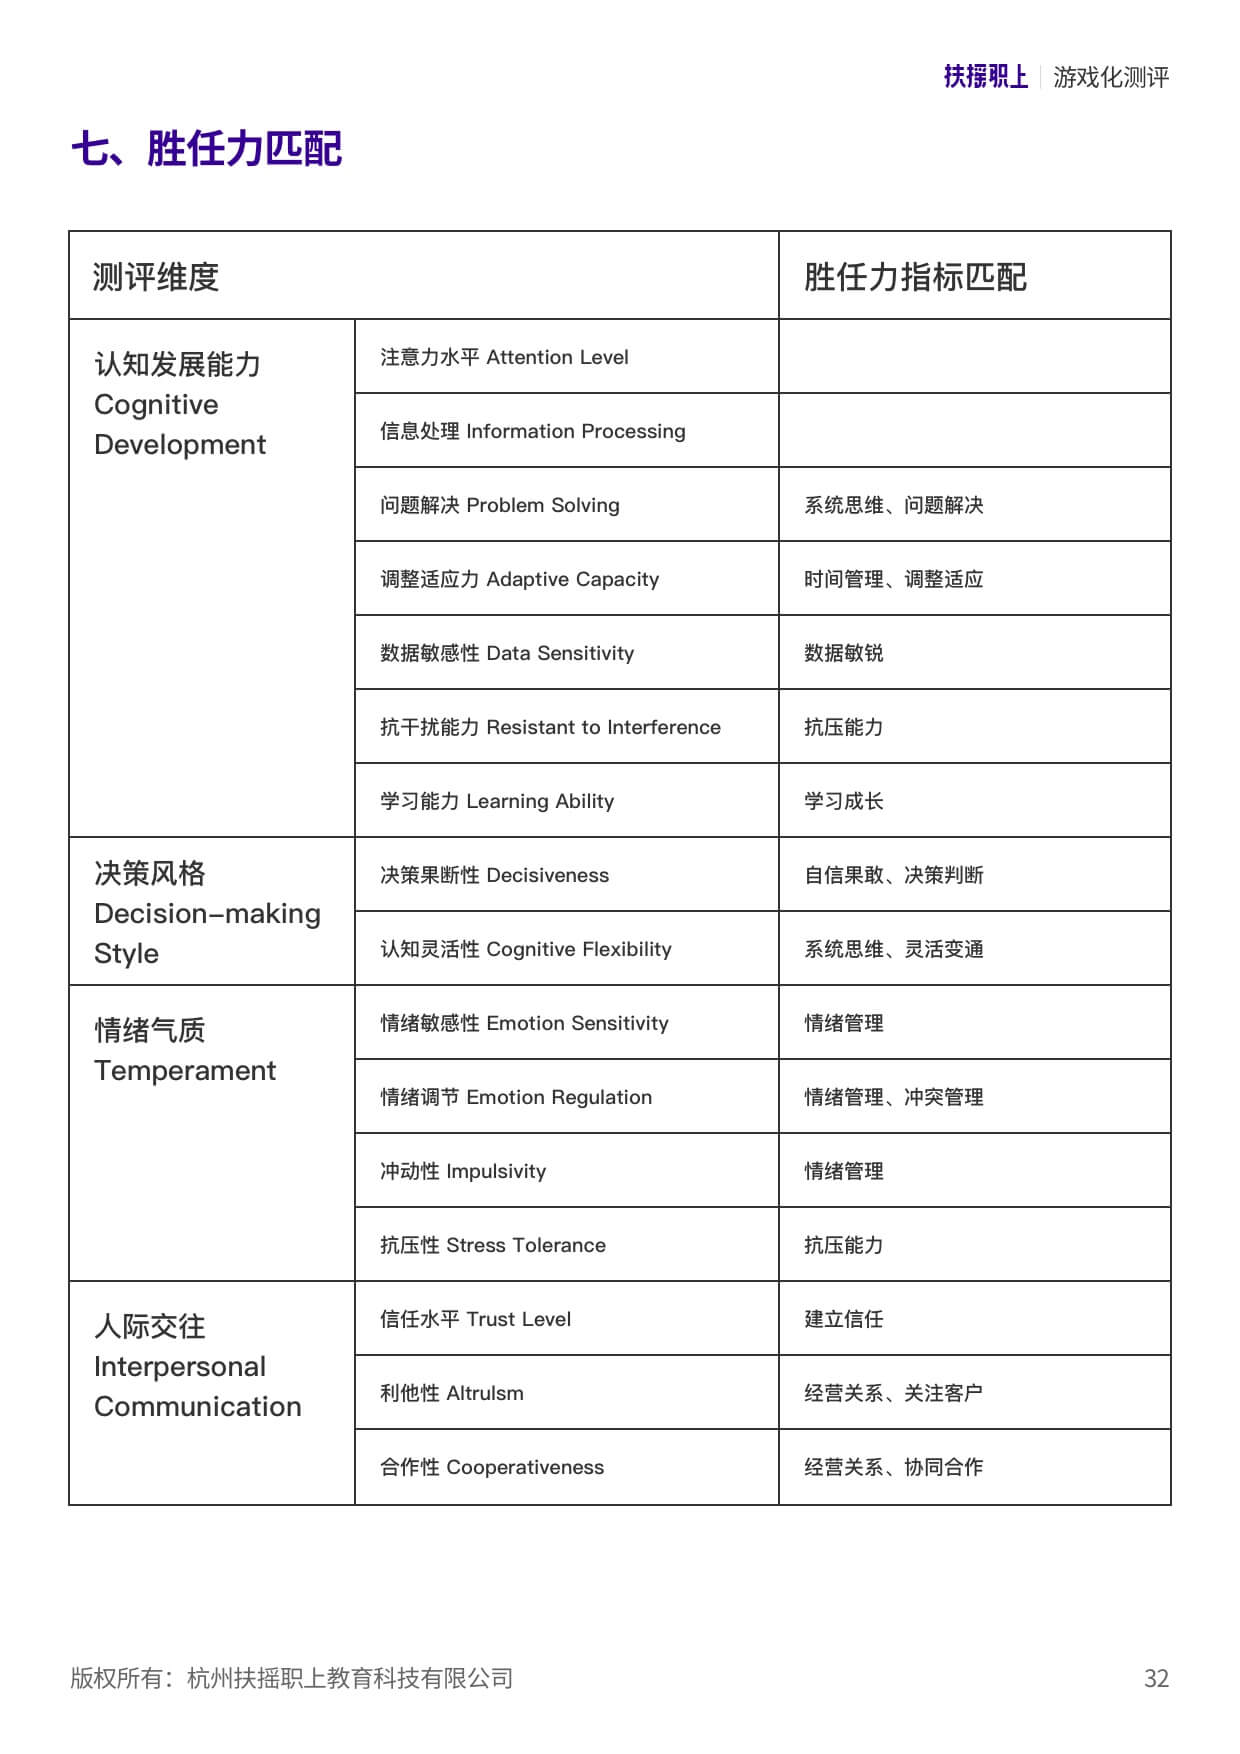
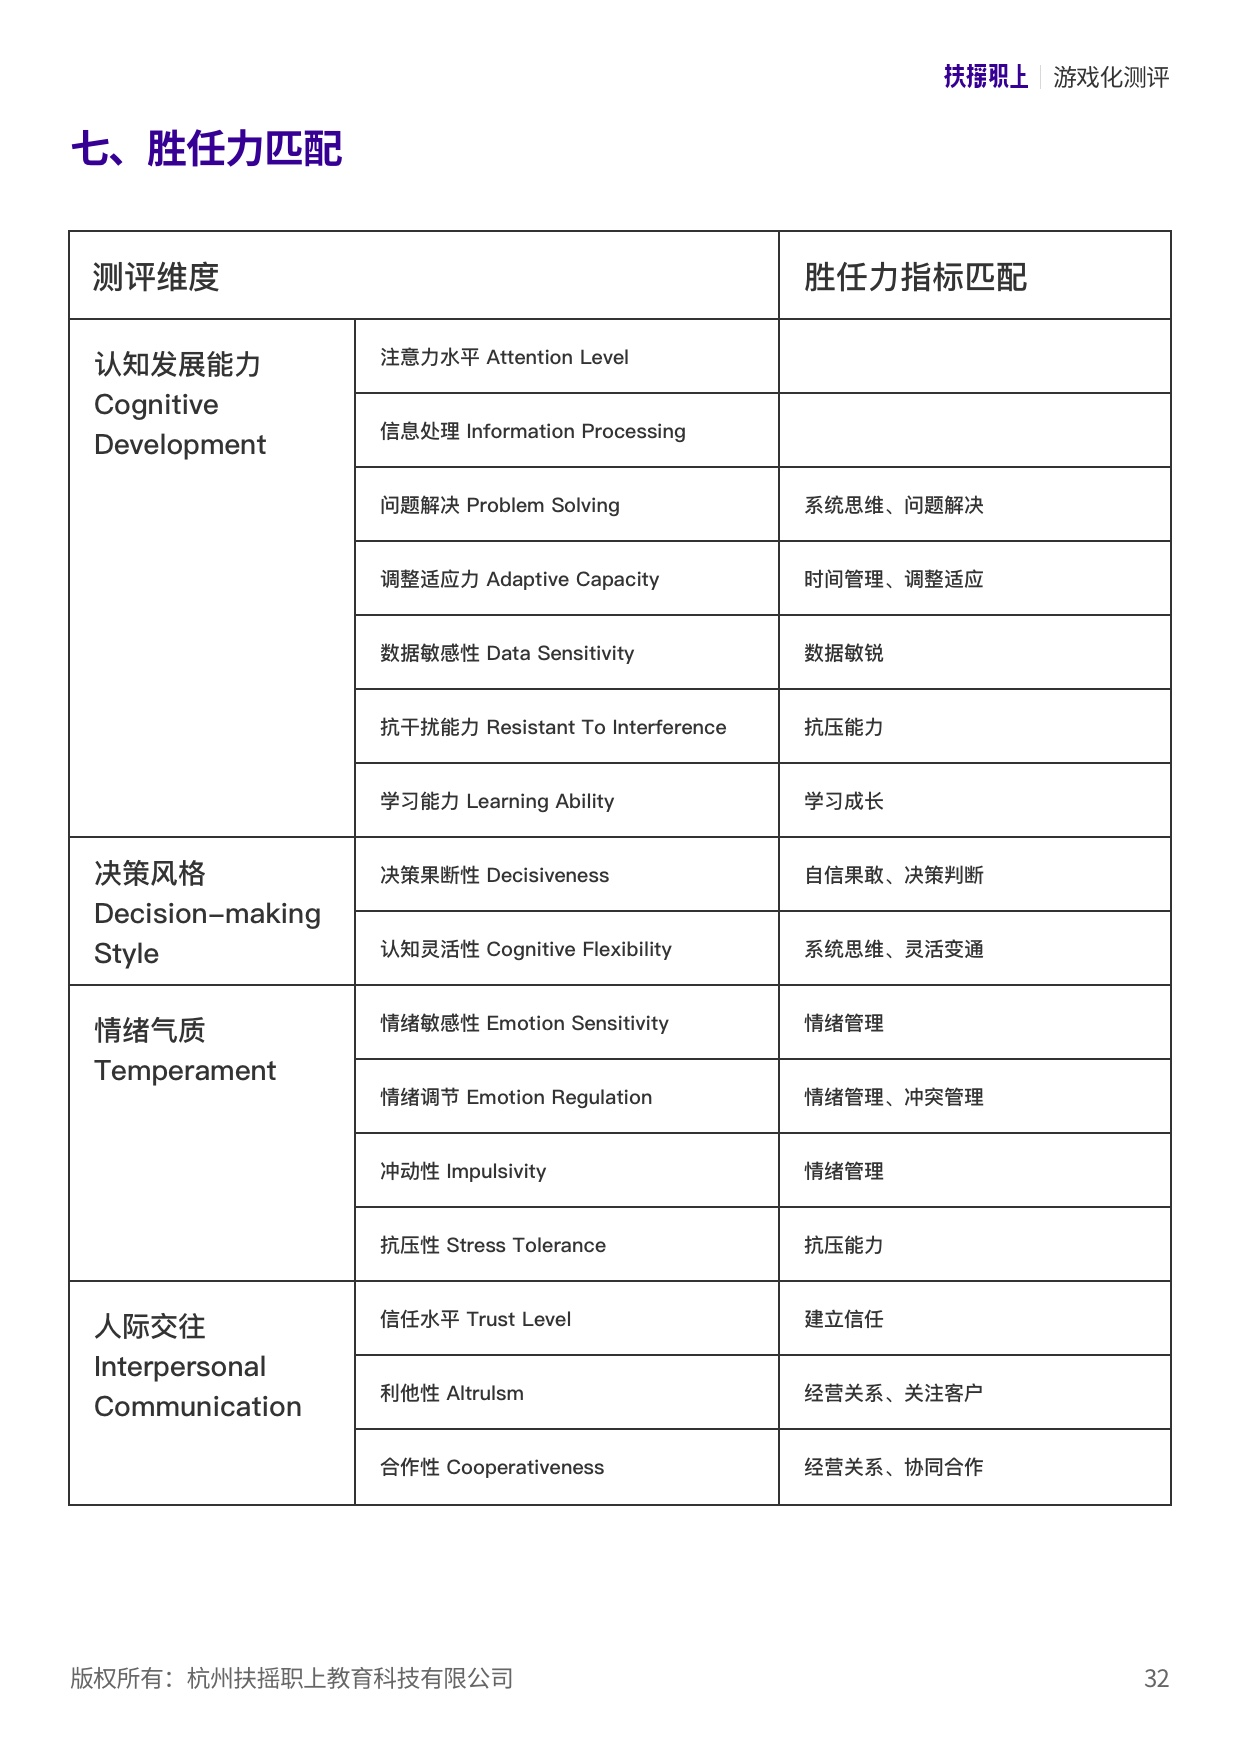
该死的替换图片

Changed region(s): [[0.4597, 0.4002, 0.5823, 0.431], [0.7661, 0.0308, 0.7968, 0.0616]]

diff --git a/pdf-complete/pdf.html b/pdf-complete/pdf.html
@@ -40,7 +40,7 @@
       <img src="./static/suggestion.jpg" alt="">
     </div>
     <div class="static">
-      <img src="./static/dims.png" alt="">
+      <img src="./static/dims.jpg" alt="">
     </div>
     <div class="static">
       <img src="./static/scoreSuggestion.jpg" alt="">

diff --git a/pdf-personal/pdf.html b/pdf-personal/pdf.html
@@ -40,7 +40,7 @@
       <img src="./static/suggestion.jpg" alt="">
     </div>
     <div class="static">
-      <img src="./static/dims.png" alt="">
+      <img src="./static/dims.jpg" alt="">
     </div>
     <div class="static">
       <img src="./static/scoreSuggestion.jpg" alt="">

diff --git a/pdf-recruitment/pdf.html b/pdf-recruitment/pdf.html
@@ -40,7 +40,7 @@
       <img src="./static/suggestion.jpg" alt="">
     </div>
     <div class="static">
-      <img src="./static/dims.png" alt="">
+      <img src="./static/dims.jpg" alt="">
     </div>
     <div class="static">
       <img src="./static/scoreSuggestion.jpg" alt="">

diff --git a/pdf-training/pdf.html b/pdf-training/pdf.html
@@ -40,7 +40,7 @@
       <img src="./static/suggestion.jpg" alt="">
     </div>
     <div class="static">
-      <img src="./static/dims.png" alt="">
+      <img src="./static/dims.jpg" alt="">
     </div>
     <div class="static">
       <img src="./static/scoreSuggestion.jpg" alt="">
